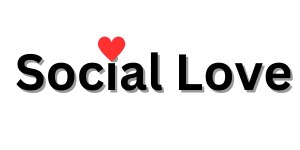
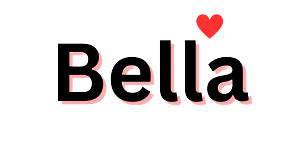
a

Changed region(s): [[0.06, 0.24, 0.99, 0.72], [0.63, 0.08, 0.75, 0.2667]]

diff --git a/firebase.js b/firebase.js
@@ -8,15 +8,14 @@ import { getStorage } from "firebase/storage";
 import "firebase/compat/auth";
 
 const firebaseConfig = {
-    apiKey: "AIzaSyBNZ_ZxpMy9C0EJH5_lrEAeoDOP-vTdMoU",
-    authDomain: "social-love-dedbe.firebaseapp.com",
-    projectId: "social-love-dedbe",
-    storageBucket: "social-love-dedbe.appspot.com",
-    messagingSenderId: "476163531178",
-    appId: "1:476163531178:web:5c9b4f511fec0308830bd3",
-    measurementId: "G-DFWE6P31RJ"
+    apiKey: "AIzaSyAIL15hT3MUGaoL5VHHl9PIzO91S36oz2c",
+    authDomain: "bella-e93f4.firebaseapp.com",
+    projectId: "bella-e93f4",
+    storageBucket: "bella-e93f4.appspot.com",
+    messagingSenderId: "519900212025",
+    appId: "1:519900212025:web:486aa55bd5862d197096e8",
+    measurementId: "G-DM5P4E8PCZ"
   };
-
 // Initialize Firebase
 const app = initializeApp(firebaseConfig);
 const auth = getAuth();

diff --git a/screens/LoginScreen.js b/screens/LoginScreen.js
@@ -110,13 +110,13 @@ const LoginScreen = () => {
                         Learn how we process your data in our {' '}
                         <Text
                             style={styles.hyperli}
-                            onPress={() => { Linking.openURL('https://justpaste.it/ce78bs') }}>
+                            onPress={() => { Linking.openURL('https://justpaste.it/412vm') }}>
                             Privacy policy
                         </Text>
                         {"\n"} and {' '}
                         <Text
                             style={styles.hyperli}
-                            onPress={() => { Linking.openURL('https://justpaste.it/ce78bs') }}>
+                            onPress={() => { Linking.openURL('https://justpaste.it/412vm') }}>
                             Terms of Service.
                         </Text>
 

diff --git a/screens/SigninEmail.js b/screens/SigninEmail.js
@@ -98,13 +98,13 @@ const SignInEmail = () => {
                         Learn how we process your data in our {' '}
                         <Text
                             style={styles.hyperli}
-                            onPress={() => { Linking.openURL('https://justpaste.it/ce78bs') }}>
+                            onPress={() => { Linking.openURL('https://justpaste.it/412vm') }}>
                             Privacy policy
                         </Text>
                         {"\n"} and {' '}
                         <Text
                             style={styles.hyperli}
-                            onPress={() => { Linking.openURL('https://justpaste.it/ce78bs') }}>
+                            onPress={() => { Linking.openURL('https://justpaste.it/412vm') }}>
                             Terms of Service.
                         </Text>
 

diff --git a/Premium/Premiumoffer.js b/Premium/Premiumoffer.js
@@ -102,7 +102,7 @@ const Premiumoffer = () => {
 
                     <View style={tw(" text-center")}>
                         <Text style={[tw(" text-center"), styles.hyperli]}
-                            onPress={() => { Linking.openURL('https://justpaste.it/ce78bs') }}>
+                            onPress={() => { Linking.openURL('https://justpaste.it/412vm') }}>
                             Terms of Use and Privacy policy {"\n"} </Text>
 
                     </View>

diff --git a/hooks/useAuth.js b/hooks/useAuth.js
@@ -29,7 +29,7 @@ export const AuthProvider = ({ children }) => {
 
 
     GoogleSignin.configure({
-        webClientId: '476163531178-about1sela71etacsoriv9ggk797mctu.apps.googleusercontent.com',
+        webClientId: '519900212025-157reaj804ndv16de3p517s8qedt4cro.apps.googleusercontent.com',
     });
 
     function onAuthStateChanged(user) {

diff --git a/App.js b/App.js
@@ -11,7 +11,7 @@ import { AuthProvider } from './hooks/useAuth';
 import { useTailwind } from "tailwind-rn";
 import Purchases, { PurchasesOffering } from 'react-native-purchases';
 const APIKeys = {
-  google: "goog_UqDsaWWCdSjyqpWwYmNjIZUOpVq",
+  google: "goog_UMqUvqDjekOUTLZMKJONDRxfTcN",
 };
 const entitlement_id = 'pro';
 
